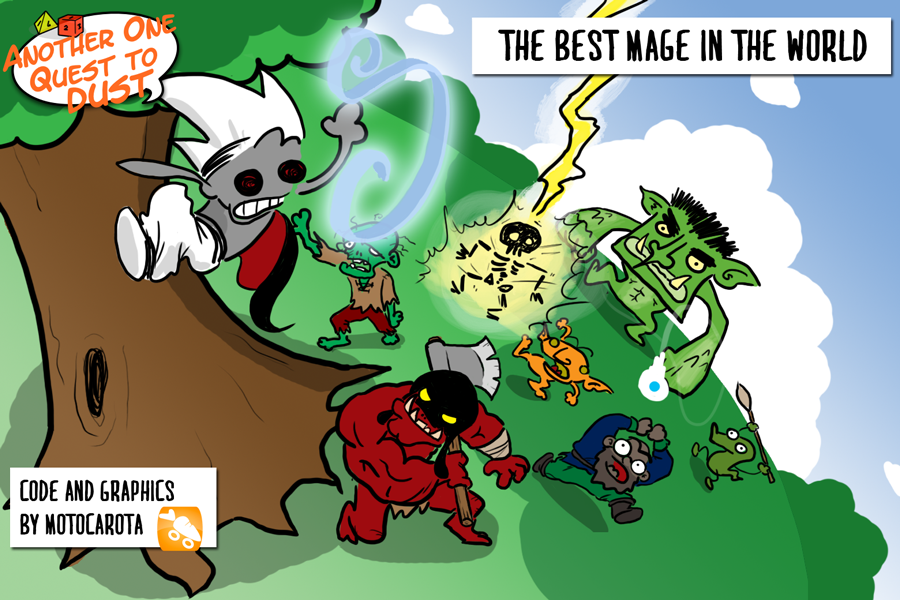
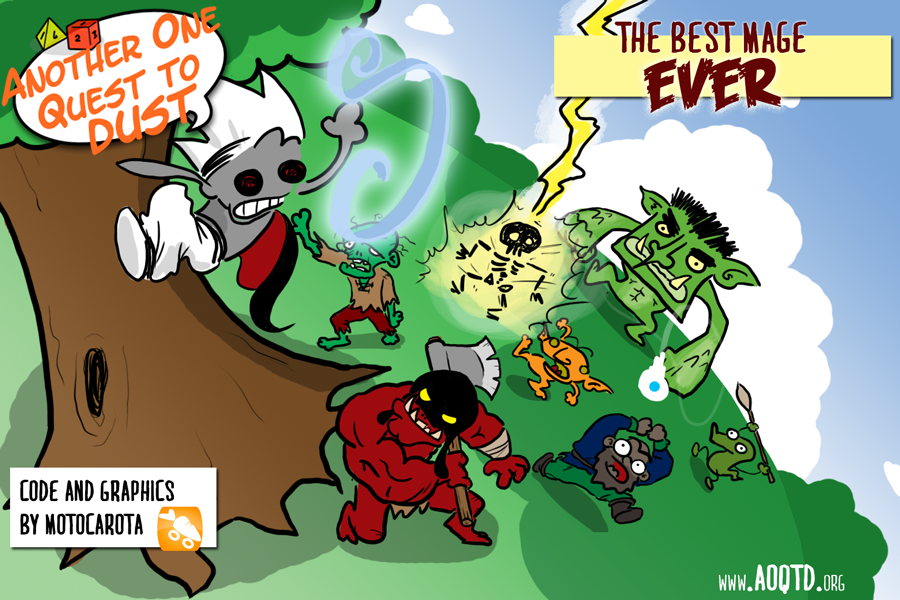
Goblin e Scheletri
Goblin
Scheletro
Cover corretta
Freccia acida nerfata

Changed region(s): [[0.4978, 0.03, 0.9956, 0.21], [0.0, 0.0, 0.28, 0.27], [0.7778, 0.93, 0.9333, 0.99]]

diff --git a/js/enemies.js b/js/enemies.js
@@ -60,17 +60,24 @@ game.enemiesBook = {
 		}
 	},
 	
-	gel_cube: {
+	skeletor: {
 		level:  3,
-		speed: .3,
-		frameW: 2,
+		speed: .8,
+		frameH: 2,
+		frameW: 3,
 		animations: {
-			walk: {
+			stand: {
 				frames: [0,1], duration: 400
+			},
+			walk: {
+			    frames: [2,2,3,4,4,3], duration: 150
+			},
+			attack: {
+			    frames: [2,5,4,3], duration: 200
 			}
-		},		
-		ai: function(){
-			this.move( roll(1, WW/2, WW/2), roll(1, HH/2, HH/2) );
+        // },       
+        // ai: function(){
+        //  
 		}
 	},
 	
@@ -180,25 +187,21 @@ game.enemiesBook = {
 		}
 	},
 
-	//esempio di nemico intelligente (LOL)
 	goblin: {
-		level: 5,
-		speed: .3,
-		frames: 12,
-		ai: function(){
-			
-			this.move( roll(1, WW/2, WW/2), roll(1, HH/2, HH/2) ).move();
-			//come possono attaccare?
-			//bisognerebbe fare in modo di poter mettere su una coda di azioni
-			// var actions = [ 'move(500, 500)', 'move(200, 200)', 'attack()'  ];
-			// this.do( actions );
-			// in teoria non va bene neanche cosi' perche' e' una lista statica di azioni, mentre io vorrei un ciclo condizionale
-			// rivedere le azioni in modo da poter
-			// while( true ){
-			// 				this.move( rand.x, rand.y );
-			// 				if( okay )
-			// 					this.attack()
-			// 			}
-		}
+		level: 2,
+		speed: .6,
+		frameH: 2,
+		frameW: 3,
+		animations: {
+            walk: {
+             frames: [0,2,1,3], duration: 200
+            },
+            attack: {
+             frames: [4, 5, 2], duration: 150
+            },
+			stand: {
+				frames: [0, 1], duration: 200
+			}
+		},
 	},
 };

diff --git a/js/main.js b/js/main.js
@@ -61,6 +61,8 @@
 			addElement( "elem_earth",	"img/sprites/enemies/elem-earth.png" ).
 			addElement( "elem_air",	    "img/sprites/enemies/elem-air.png" ).
 			addElement( "elem_water",	"img/sprites/enemies/elem-water.png" ).
+			addElement( "skeletor",	    "img/sprites/enemies/skeletor.png" ).
+			addElement( "goblin",	    "img/sprites/enemies/goblin.png" ).
 			
 			//other
 			addElement( "empty",		"img/empty.png" ).

diff --git a/js/levels.js b/js/levels.js
@@ -2,8 +2,8 @@
 
 	game.waves = [
 		null,
+		[ { skeletor:1, goblin:1, orc:1 }, { goblin:3 } ],
 		[ { elem_water:2 }, { elem_air:2 }, { elem_earth:2 }, { elem_fire:2 } ],
-		[ { kobold:1, orc:1 }, { kobold:3, orc:1 } ],
 		[ { orc:1, troll:1 }, { orc:2, troll:2 }, { orc:3, troll:3 } ],
 		[ { troll:1 }, { troll:2 }, { troll:3 } ],
 		[ { shadow:1 }, { shadow:2 }, { shadow:3 } ],

diff --git a/js/spells.js b/js/spells.js
@@ -96,9 +96,10 @@ game.spellBook = {
 					var dot = new game.Buff();
 					dot.init( 15, function( t ){
 						if ( this.getDurationLeft() % 3 === 0 ) {
-							t && t.damage( roll( 2, 4 ), 'nature' );
+							t && t.damage( roll( 2, 3 ), 'nature' );
 						}
 					} );
+					dot.modSpeed = 2; //slows enemy
 					target.addBuff( dot );
 					return true;
 				}

diff --git a/TODO.md b/TODO.md
@@ -4,36 +4,36 @@ L'obiettivo e' creare un gioco tipo archmage defense in cui il giocatore e' atta
 piu' o meno forti che avanzano verso di lui, su cui si sparano incantesimi per difendersi
 
 ## TODO
-
+    
 Fare tutti i livelli
 Fare tutti i mostri
 cercare di capire come potrei implementare intelligenza artificiale dei mostri
 
 ( GRAPHICS )
 
-    * Risistemare intro image
+    * completare i buff che accelerano o rallentano
 	* Sprite dell'albero danneggiato in 3-4 fasi
 	* mostri
 	* livelli
-		Torre del mago
 		Piano astrale
 	* gold / banner
 	* Suoni / Musica
 
 ( CODE )
 
+    * sistemare definitivamente UI, nemici, difficolta'
+    * rivedere ai() dei nemici
+    	* provare i nemici intelligenti/ranged
 	* filmatino introduttivo
-	* provare i nemici intelligenti/ranged
 	* classi di mostro (humanoid, undead, beast, construct)
 		hanno effetto sui dv, danni
 	* implementare il boss fight
 		comportamenti scriptati, con strategia da ripetere tre volte, stile vecchi giochi	
 
 ( Animazione iniziale )
-	sd2 che spiega il suo piano e viene deriso
 	
 	1. Superdrow raggiunge i suoi amici alla locanda, tutto sorridente, aspetta un po', gli amici lo ignorano
-	2. [primo piano] "Ho trovato il modo per diventare il mago piu' forte di sempre!!"
+	2. [primo piano] "I've found the way to become the most powerful mage in the world!!"
 	3. gli amici si guardano
 	4. sd2 srotola un foglio blu con il piano
 	5. visuale del foglio con il piano disegnato e il dito che segue le fasi:
@@ -45,43 +45,64 @@ cercare di capire come potrei implementare intelligenza artificiale dei mostri
 	    - profit
 	6. amici perplessi, scoppiano a ridere
 	7. sd2 si allontana offeso, per poi voltarsi minaccioso
-	8. "VEDREMO CHI RIDERA' QUANDO SARO'... IL MIGLIOR MAGO DI SEMPRE!!1!"
+	8. "WE'LL SEE WHEN I'LL BE... THE BEST MAGE EVER!!1!" logo copertina fica ecc
+	9. Si chiude nel cesso, passa un po', poi "crap"
 
 ( DOPO )
 
 	* documentare il codice
+	* pensare ad un modello con cui specializzi il protagonista o compri oggetti
 	* rifare main.js per rispecchiare lo schema di sumon
 	* html5 games prime, leggere ( http://buildnewgames.com/mobile-game-primer/ )
 
 
 ## LISTA MOSTRI
-
-da implementare
-					stand	walk	att
+fatti
 ---------------------------------------
-Goblin
-zombie
-scheletro
-ghoul
-mummia
-vampiro
-rakshaaza
-hill giant
-golem argilla
-dragon 
-giant turtle
-blink dog
-shadow
-minotauro
-luci fatue
-elementale fuoco
+coboldo
+orco
 elementale acqua
 elementale terra
+elementale fuoco
 elementale aria
+troll
+
+da fare
+---------------------------------------
+    //questi hanno attacchi ranged
+goblin
+drow        // sr, arciere
+duergar     // sr
+scheletro
+rakshasa    // caster
+hill giant  
+
+    // questi hanno ai standard
+dretch
+zombie
+melma
+ghoul
+ogre
+mummia
+progenie vampirica
+minotauro
+vrock           //resisevoca 1d10 dretch
+
+golem argilla
+golem ferro
+golem roccia
+
+giant turtle    //questi hanno una fase invulnerabilita'/teleport
+vampiro         //caster
+spettro
+luci fatue
+blink dog
+bulette
+shadow
 
 ## LISTA LIVELLI
 							bg			music
-----
+---------------------------------------
 	* Campagna				ok
 	* Deserto				ok
 	* Neve					ok
@@ -102,7 +123,7 @@ POI se avro' voglia li implementero' diversamente
 
 	* Ogre : Accidia ( arancione )
         torpore malinconico, inerzia nel vivere e nel compiere opere di bene
-		- 
+		- Savana al tramonto
 
 	* Vermone gigante : Gola ( giallo )
 	    abbandono ed esagerazione nei piaceri della tavola
@@ -124,13 +145,16 @@ POI se avro' voglia li implementero' diversamente
 		tristezza per il bene altrui, percepito come male proprio
 		- Piano Astrale / tutto assurdo e fuori dal tempo
 		- Cimitero di notte
+		faccio uno schizzo per entrambi e vedo quale mi convince di piu'
 
 
 		
 
 ## BUGS
 
-* impostare lo z-index dei nemici = director.height - y
+* capire perche' a volte i nemici saltano addosso al giocatore
+    perche' quando sono vicini eseguono una move, ma qualcosa sballa nel calcolo del tempo da impiegare
 * alcuni nemici sembrano in grado di attaccare anche da subito
 * alcuni nemici camminano in eterno
+    mirano troppo in basso e quando arrivano non sono a portata del player, va rivista ai
 * su android non mi mostra il font custom
